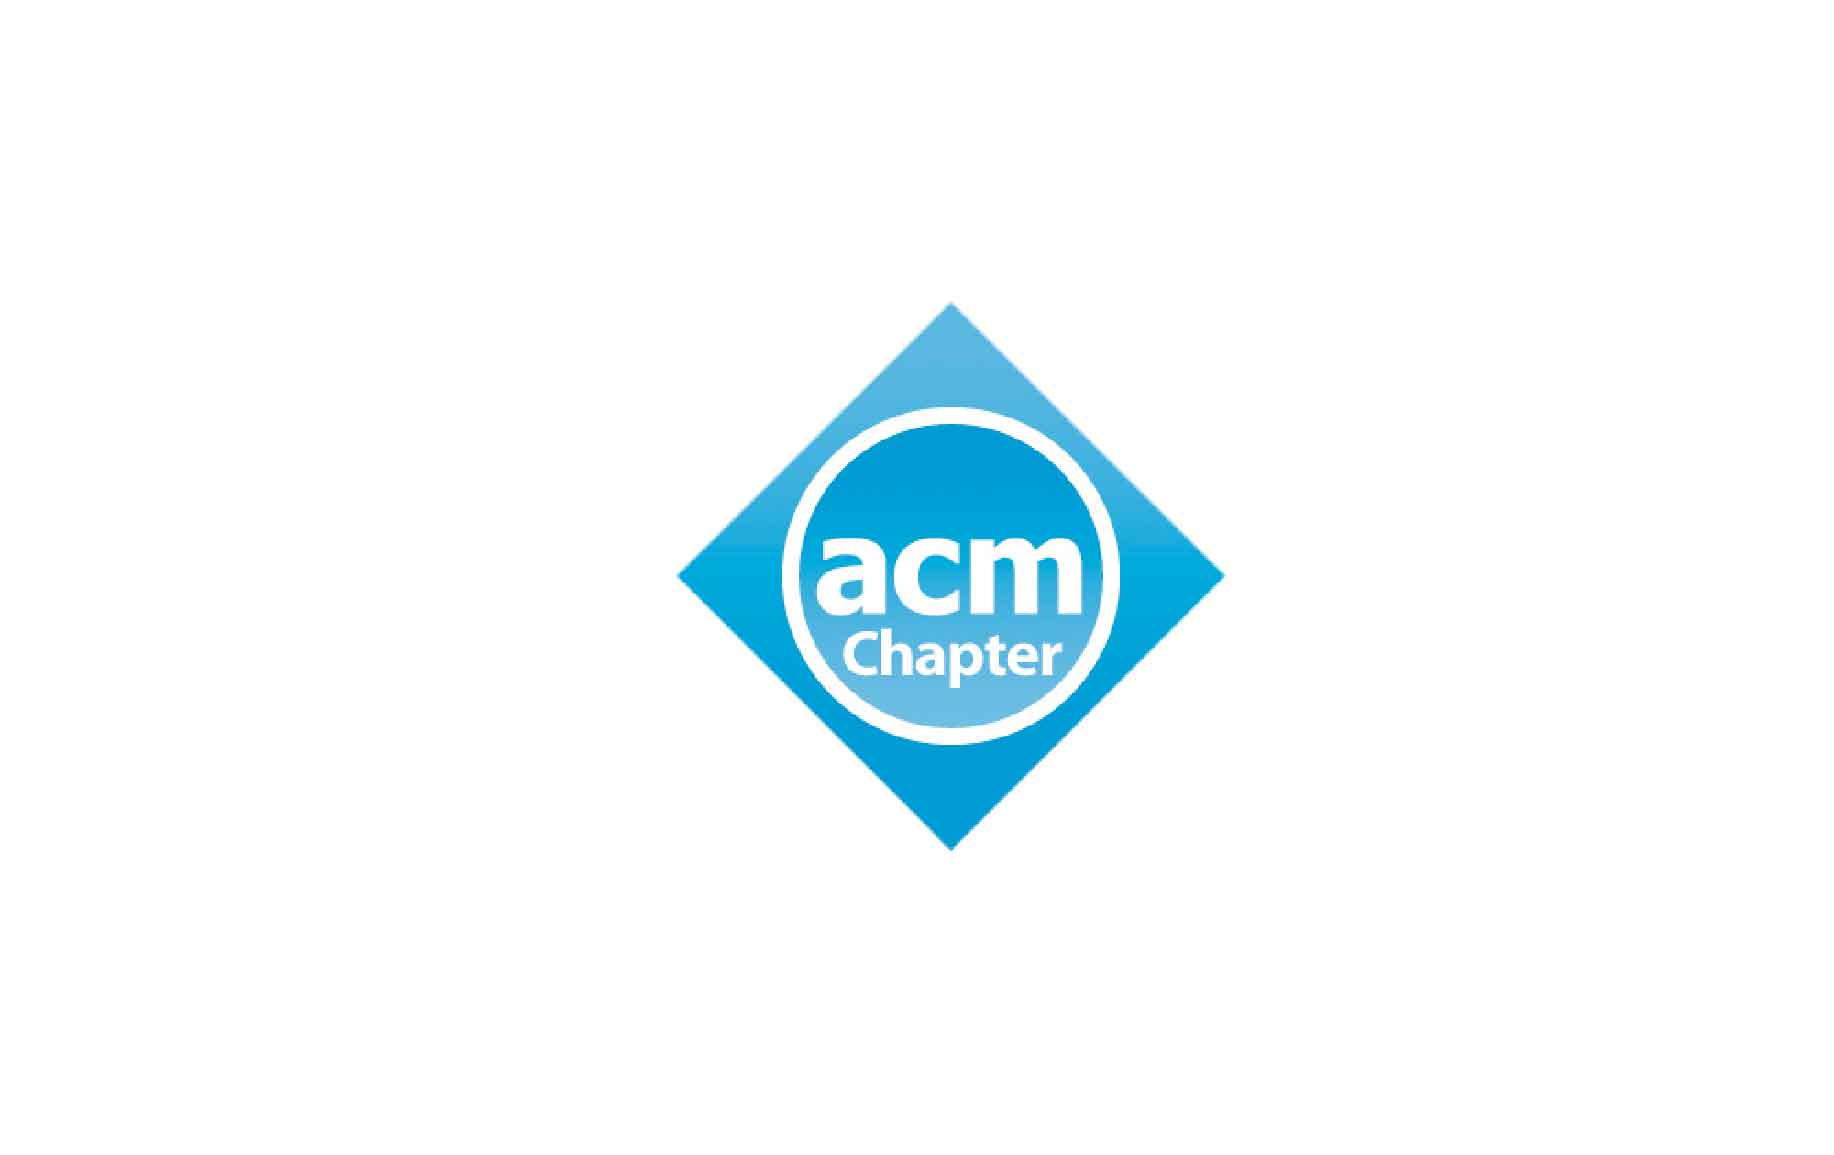
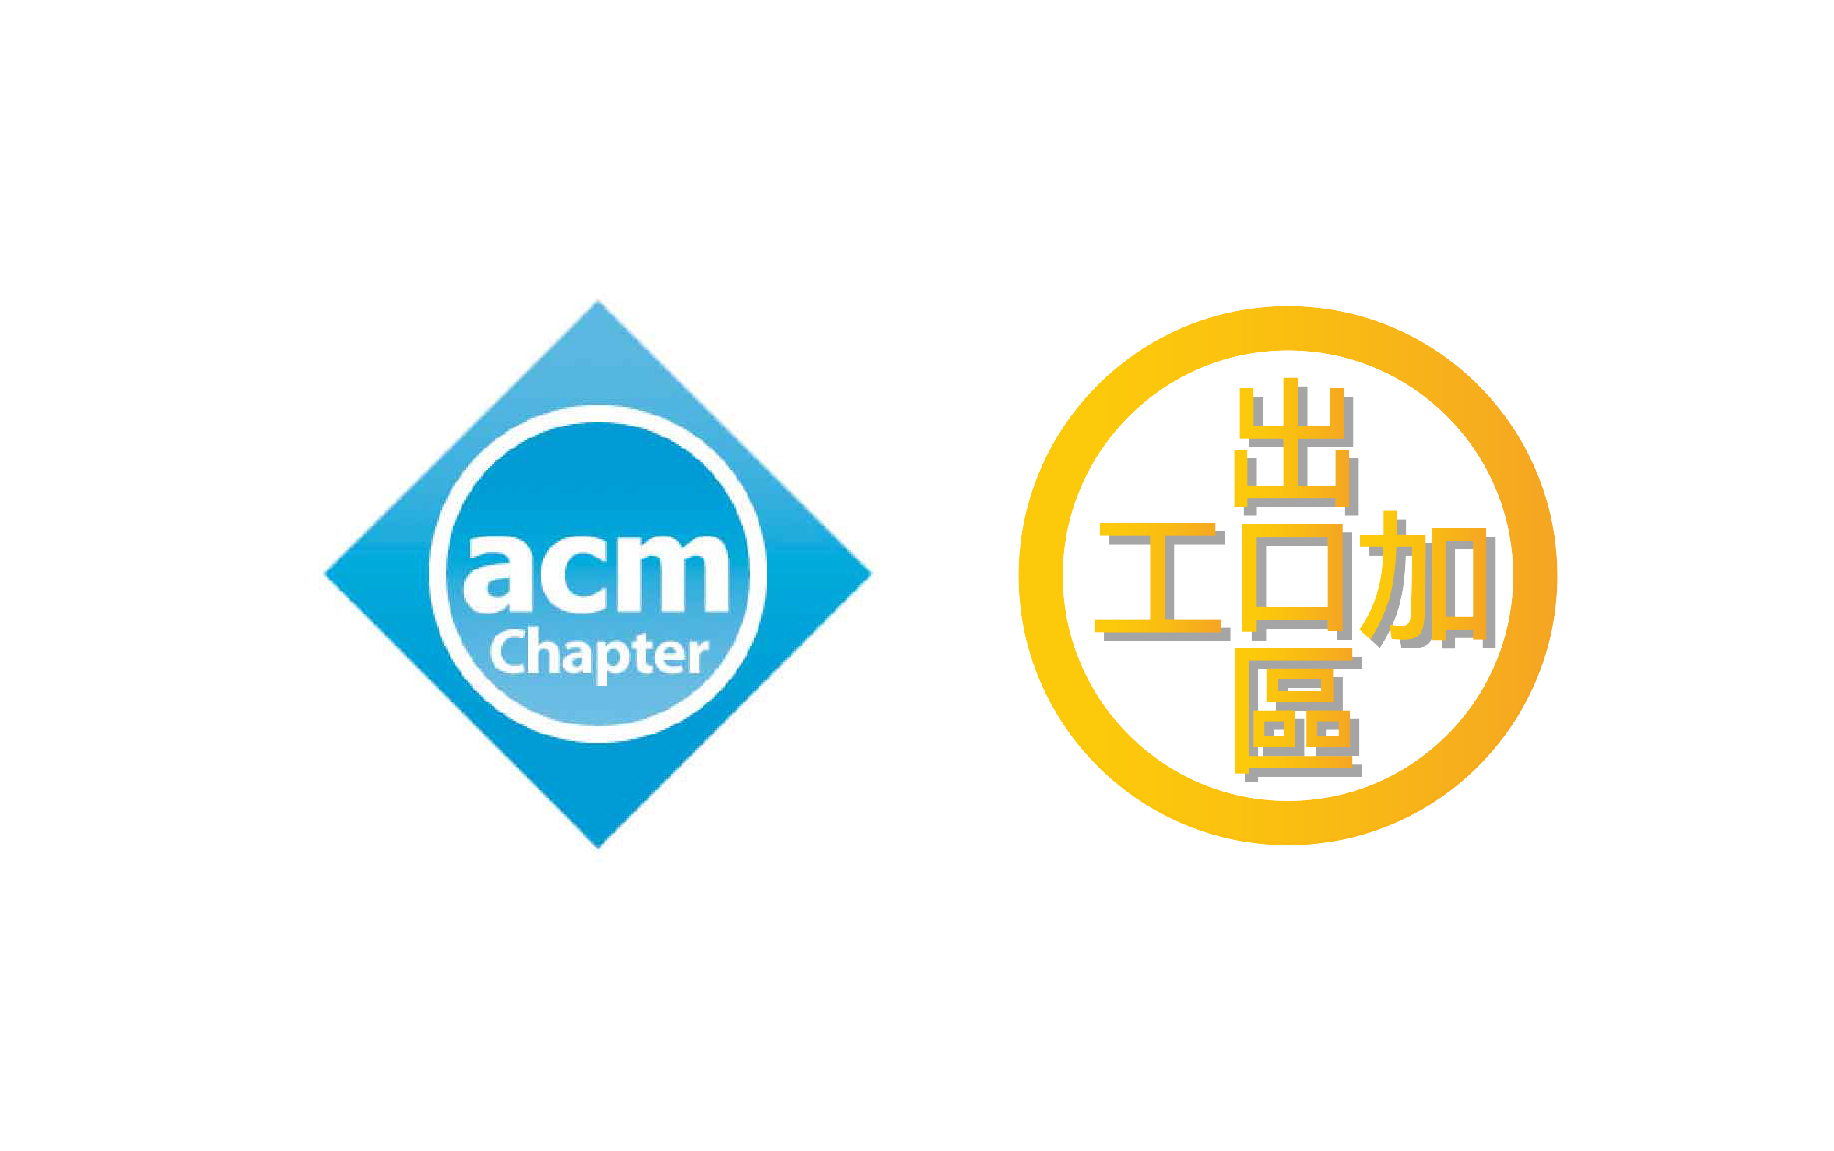
add經濟部加工出口管理處

Changed region(s): [[0.1554, 0.2433, 0.8702, 0.7602]]

diff --git a/index.html b/index.html
@@ -119,6 +119,7 @@
                             台灣人機互動學會<br>
                             台灣科技藝術學會<br>
                             國立台南藝術大學<br>
+                            經濟部加工出口區管理處<br>
                             教育部AR/VR與3D多媒體資源中心<br>
                             中央研究院資訊科技創新研究中心<br>
                             中央研究院資訊科學研究所<br>
